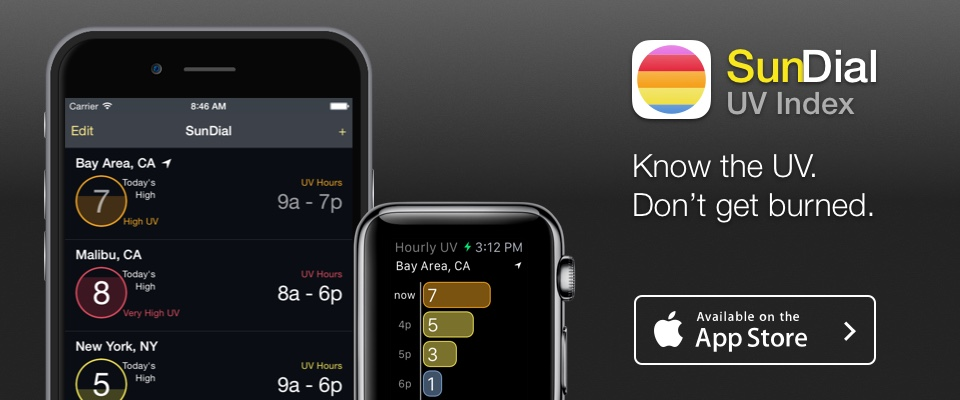
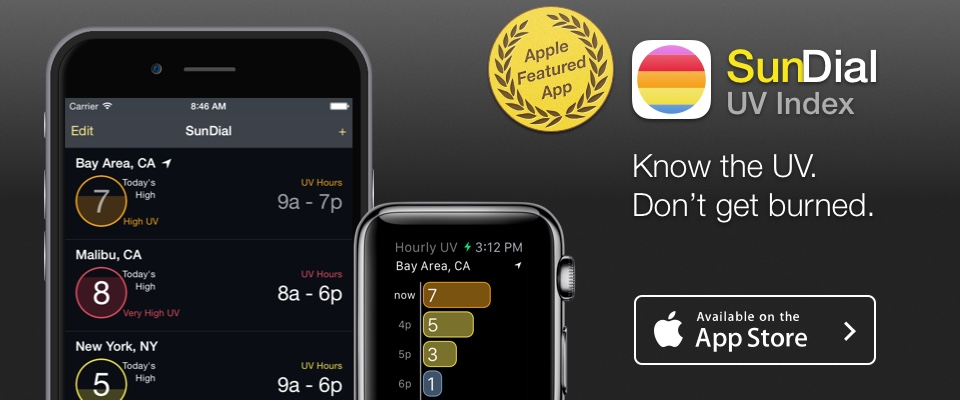
Featured app update!
Added featured hero, added buy sundial button to why sundial div.

Changed region(s): [[0.5, 0.0, 0.6562, 0.33]]

diff --git a/stylesheet.css b/stylesheet.css
@@ -60,12 +60,31 @@ h4 {
     margin-left: 20%;
     margin-right: 20%;
 */
-    text-align: center;
+    width: 512px;
+    padding-left: 4%;
+    text-align: left;
     line-height: 2em;
-    margin-top: 8%;
+    margin-top: 4%;
     background-color: white;
     border: 1px solid #333333;
     box-shadow: 0px 1px 2px 0px rgba(0,0,0,0.50);
+}
+
+.buyNowButton {
+/*
+    margin-left: 20%;
+    margin-right: 20%;
+*/
+    width: 512px;
+    height: 128px;
+    text-align: center;
+    line-height: 2em;
+    margin-top: 4%;
+    border: 1px solid #333333;
+    box-shadow: 0px 1px 4px 0px rgba(0,0,0,0.50);
+    background-image: -webkit-image-set(url(images/Buy_Now_Button@1x.jpg) 1x, url(images/Buy_Now_Button@2x.jpg) 2x);
+    background-position: center;
+    background-repeat: no-repeat;
 }
 
 .featureRect {

diff --git a/index.html b/index.html
@@ -56,11 +56,8 @@
                 <br>
                 Instant access to the UV index takes the guess work out of knowing when you need sun protection.
                 </b>
-                <br>
-                <br>
                 <a href="https://itunes.apple.com/us/app/sundial-uv-index/id952406318?ls=1&mt=8">
-                <div class = "button">
-                    <h3><b>Get SunDial on the App Store ></b></h3>
+                <div class = "buyNowButton">
                 </div>
                 </a>
                 <br>
